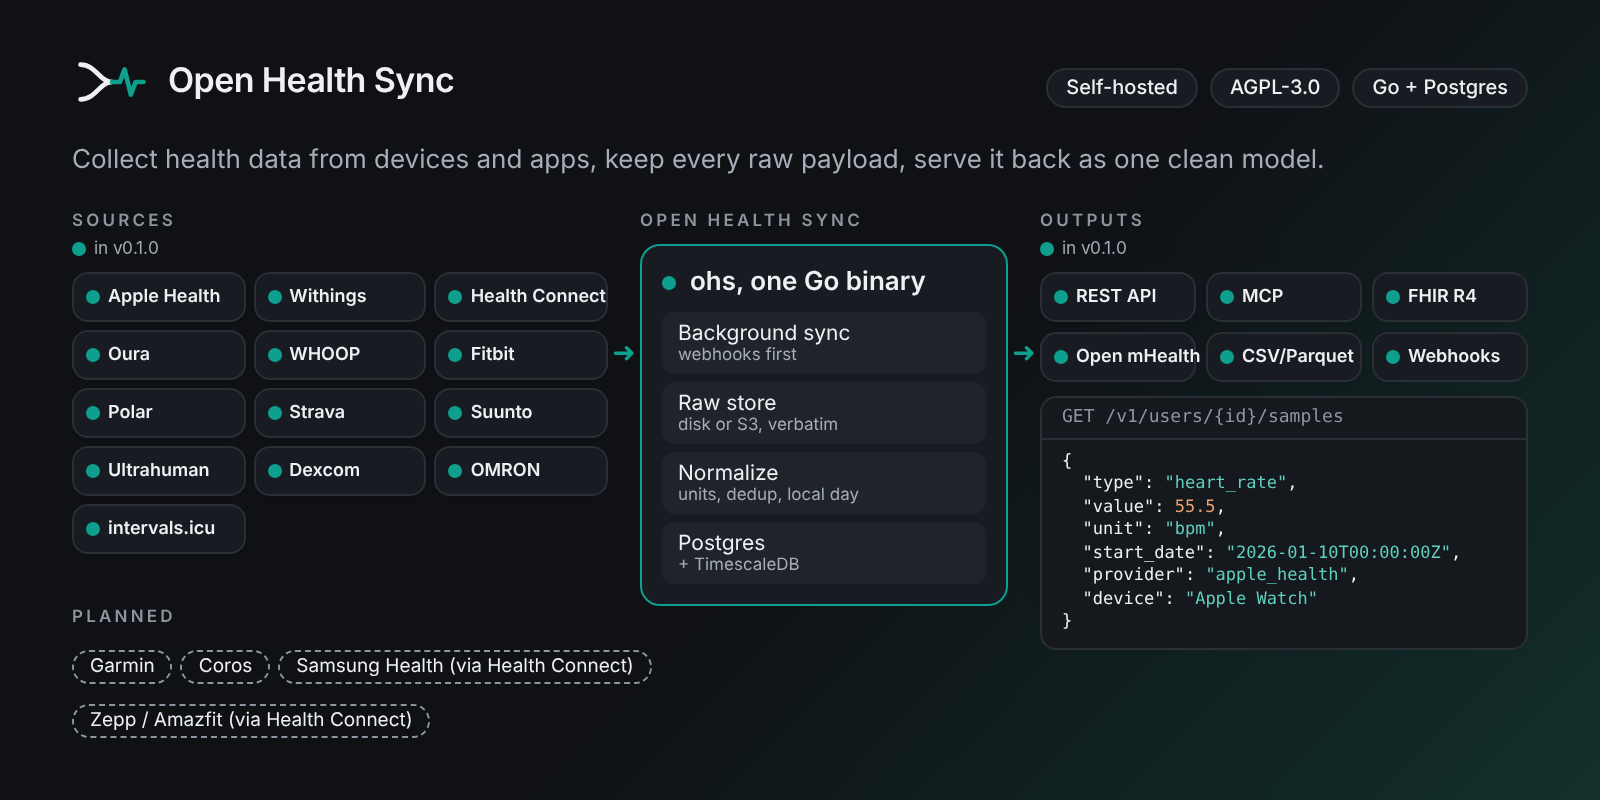
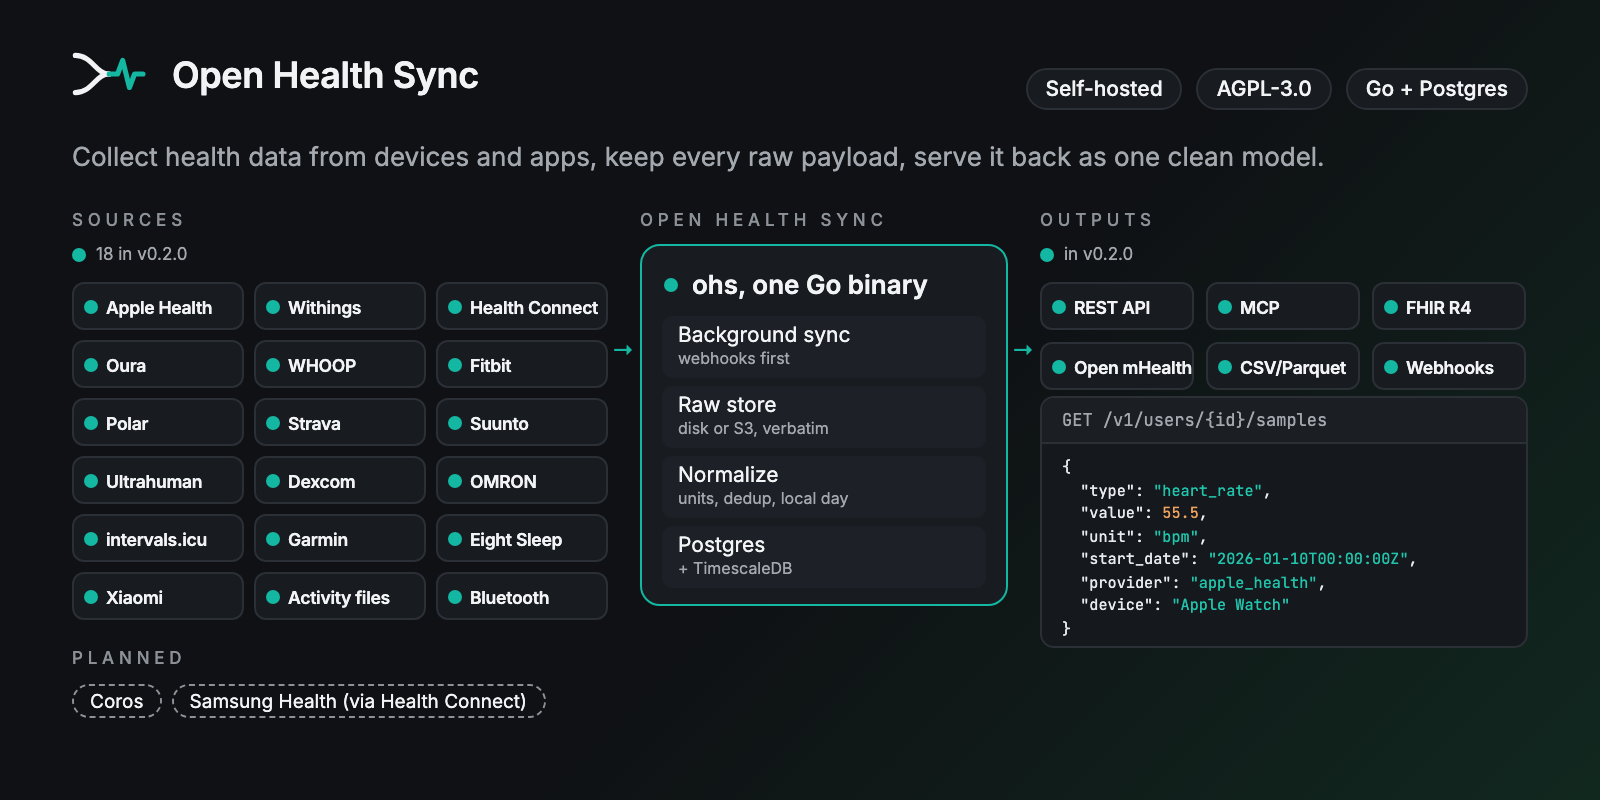
docs(readme): hero image with the eighteen sources of v0.2.0 (#207)

diff --git a/docs/assets/readme/hero.html b/docs/assets/readme/hero.html
@@ -1,0 +1,120 @@
+<!--
+  Source of docs/assets/readme/hero-light.png and hero-dark.png (800x400 at 2x).
+  Render with Playwright: open hero.html?theme=light and ?theme=dark at a
+  viewport of 800x400, deviceScaleFactor 2, wait for document.fonts.ready,
+  and screenshot. Update the source list and the version on each release.
+-->
+<!doctype html>
+<html>
+<head>
+<meta charset="utf-8">
+<link rel="preconnect" href="https://fonts.googleapis.com">
+<link href="https://fonts.googleapis.com/css2?family=Inter:wght@400;500;600&family=JetBrains+Mono:wght@400&display=block" rel="stylesheet">
+<style>
+  :root {
+    --bg: #f4f3ef; --bg2: #e6efea; --ink: #16181d; --muted: #5d636b; --label: #7a7f86;
+    --tile: #ffffff; --tile-line: #e3e2dd; --stage: #efeeea; --accent: #0e9f8e;
+    --json-key: #16181d; --json-str: #0e9f8e; --json-num: #c2522d; --code-bg: #f7f6f2; --code-head: #eeede8;
+  }
+  :root[data-theme="dark"] {
+    --bg: #0f1114; --bg2: #11281f; --ink: #f2f3f5; --muted: #a3a8af; --label: #8c9198;
+    --tile: #181b20; --tile-line: #2b2f36; --stage: #1d2026; --accent: #14b8a2;
+    --json-key: #e8eaed; --json-str: #22c3ab; --json-num: #f0a35e; --code-bg: #15181c; --code-head: #1b1e23;
+  }
+  * { box-sizing: border-box; margin: 0; padding: 0; }
+  html, body { width: 800px; height: 400px; }
+  body {
+    font-family: Inter, -apple-system, sans-serif; color: var(--ink);
+    background: linear-gradient(135deg, var(--bg) 55%, var(--bg2) 100%);
+    position: relative; overflow: hidden;
+  }
+  .abs { position: absolute; }
+  .title { left: 36px; top: 26px; display: flex; align-items: center; gap: 12px; }
+  .title span { font-size: 18px; font-weight: 600; letter-spacing: -0.2px; }
+  .pills { right: 36px; top: 34px; display: flex; gap: 7px; }
+  .pill { border: 1px solid var(--tile-line); background: var(--tile); border-radius: 999px;
+          font-size: 10.5px; padding: 3px 9px; font-weight: 500; }
+  .tag { left: 36px; top: 70px; font-size: 13px; color: var(--muted); }
+  .h { font-size: 8.5px; letter-spacing: 2.4px; color: var(--label); font-weight: 500; }
+  .legend { font-size: 8.5px; color: var(--muted); display: flex; align-items: center; gap: 5px; margin-top: 7px; }
+  .dot { width: 7px; height: 7px; border-radius: 50%; background: var(--accent); flex: none; }
+  .grid { display: grid; gap: 5px; }
+  .src { grid-template-columns: repeat(3, 86px); margin-top: 9px; }
+  .out { grid-template-columns: repeat(3, 77px); margin-top: 9px; gap: 6px 6px; }
+  .t { height: 24px; border: 1px solid var(--tile-line); background: var(--tile); border-radius: 6px;
+       display: flex; align-items: center; gap: 4px; padding: 0 5px; font-size: 8.8px; font-weight: 600; letter-spacing: -0.15px;
+       white-space: nowrap; overflow: hidden; }
+  .planned { display: flex; gap: 5px; margin-top: 8px; }
+  .p { border: 1px dashed var(--label); border-radius: 999px; font-size: 9.5px; padding: 2px 8px; color: var(--ink); }
+  .arrow { color: var(--accent); font-size: 11px; font-weight: 600; }
+  .core { left: 320px; top: 122px; width: 184px; height: 181px; border: 1.5px solid var(--accent);
+          border-radius: 10px; background: var(--tile); padding: 10px 10px; }
+  .core .head { display: flex; align-items: center; gap: 7px; font-size: 13px; font-weight: 600; margin: 1px 0 8px 1px; }
+  .stage { background: var(--stage); border-radius: 5px; padding: 4px 8px; margin-bottom: 4px; height: 31px; }
+  .stage b { display: block; font-weight: 400; font-size: 10.5px; line-height: 12px; }
+  .stage i { display: block; font-style: normal; font-size: 8px; color: var(--muted); line-height: 10px; }
+  .code { left: 520px; top: 198px; width: 244px; height: 126px; border: 1px solid var(--tile-line);
+          border-radius: 7px; background: var(--code-bg); overflow: hidden; font-family: 'JetBrains Mono', Menlo, monospace; }
+  .code .bar { background: var(--code-head); border-bottom: 1px solid var(--tile-line); padding: 5px 10px; font-size: 8.5px; color: var(--muted); }
+  .code pre { font-family: inherit; font-size: 7.6px; line-height: 11.5px; padding: 6px 10px; color: var(--json-key); }
+  .s { color: var(--json-str); } .n { color: var(--json-num); }
+</style>
+</head>
+<body>
+  <div class="abs title">
+    <svg width="38" height="22" viewBox="8 22 86 52" fill="none" stroke-width="6" stroke-linecap="round" stroke-linejoin="round">
+      <path d="M10 26 C30 26 34 48 50 48" stroke="var(--ink)"/>
+      <path d="M10 70 C30 70 34 48 50 48" stroke="var(--ink)"/>
+      <path d="M50 48 H60 L66 32 L74 64 L80 48 H90" stroke="var(--accent)"/>
+    </svg>
+    <span>Open Health Sync</span>
+  </div>
+  <div class="abs pills"><div class="pill">Self-hosted</div><div class="pill">AGPL-3.0</div><div class="pill">Go + Postgres</div></div>
+  <div class="abs tag">Collect health data from devices and apps, keep every raw payload, serve it back as one clean model.</div>
+
+  <div class="abs" style="left:36px; top:105px;">
+    <div class="h">SOURCES</div>
+    <div class="legend"><span class="dot"></span>18 in v0.2.0</div>
+    <div class="grid src" id="src"></div>
+    <div class="h" style="margin-top:14px;">PLANNED</div>
+    <div class="planned"><div class="p">Coros</div><div class="p">Samsung Health (via Health Connect)</div></div>
+  </div>
+
+  <div class="abs arrow" style="left:306px; top:168px;">&rarr;</div>
+  <div class="abs h" style="left:320px; top:105px;">OPEN HEALTH SYNC</div>
+  <div class="abs core">
+    <div class="head"><span class="dot"></span>ohs, one Go binary</div>
+    <div class="stage"><b>Background sync</b><i>webhooks first</i></div>
+    <div class="stage"><b>Raw store</b><i>disk or S3, verbatim</i></div>
+    <div class="stage"><b>Normalize</b><i>units, dedup, local day</i></div>
+    <div class="stage" style="margin-bottom:0"><b>Postgres</b><i>+ TimescaleDB</i></div>
+  </div>
+  <div class="abs arrow" style="left:506px; top:168px;">&rarr;</div>
+
+  <div class="abs" style="left:520px; top:105px;">
+    <div class="h">OUTPUTS</div>
+    <div class="legend"><span class="dot"></span>in v0.2.0</div>
+    <div class="grid out" id="out"></div>
+  </div>
+  <div class="abs code">
+    <div class="bar">GET /v1/users/{id}/samples</div>
+<pre>{
+  "type": <span class="s">"heart_rate"</span>,
+  "value": <span class="n">55.5</span>,
+  "unit": <span class="s">"bpm"</span>,
+  "start_date": <span class="s">"2026-01-10T00:00:00Z"</span>,
+  "provider": <span class="s">"apple_health"</span>,
+  "device": <span class="s">"Apple Watch"</span>
+}</pre>
+  </div>
+<script>
+  const theme = new URLSearchParams(location.search).get('theme');
+  if (theme) document.documentElement.dataset.theme = theme;
+  const tiles = (id, names) => document.getElementById(id).innerHTML =
+    names.map(n => `<div class="t"><span class="dot"></span>${n}</div>`).join('');
+  tiles('src', ['Apple Health','Withings','Health Connect','Oura','WHOOP','Fitbit','Polar','Strava','Suunto',
+    'Ultrahuman','Dexcom','OMRON','intervals.icu','Garmin','Eight Sleep','Xiaomi','Activity files','Bluetooth']);
+  tiles('out', ['REST API','MCP','FHIR R4','Open mHealth','CSV/Parquet','Webhooks']);
+</script>
+</body>
+</html>

diff --git a/README.md b/README.md
@@ -8,7 +8,7 @@
 <a href="#quickstart">
 <picture>
   <source media="(prefers-color-scheme: dark)" srcset="docs/assets/readme/hero-dark.png">
-  <img src="docs/assets/readme/hero-light.png" width="100%" alt="Open Health Sync: thirteen sources flow into one Go binary (background sync, raw store, normalize, Postgres). All thirteen are in v0.2.0: Apple Health, Withings, Health Connect, Oura, WHOOP, Fitbit, Polar, Strava, Suunto, Ultrahuman, Dexcom, OMRON and intervals.icu. Outputs, all in v0.2.0: REST API, read-only MCP, FHIR R4, Open mHealth, CSV/Parquet exports and outgoing webhooks. Coros and Samsung Health via Health Connect are planned; Garmin, drawn as planned, ships in v0.2.0. The JSON shown is a real heart rate sample read back from the API.">
+  <img src="docs/assets/readme/hero-light.png" width="100%" alt="Open Health Sync: eighteen sources flow into one Go binary (background sync, raw store, normalize, Postgres). All eighteen are in v0.2.0: Apple Health, Withings, Health Connect, Oura, WHOOP, Fitbit, Polar, Strava, Suunto, Ultrahuman, Dexcom, OMRON, intervals.icu, Garmin, Eight Sleep, Xiaomi, activity files and Bluetooth devices. Outputs, all in v0.2.0: REST API, read-only MCP, FHIR R4, Open mHealth, CSV/Parquet exports and outgoing webhooks. Coros and Samsung Health via Health Connect are planned. The JSON shown is a real heart rate sample read back from the API.">
 </picture>
 </a>
 
